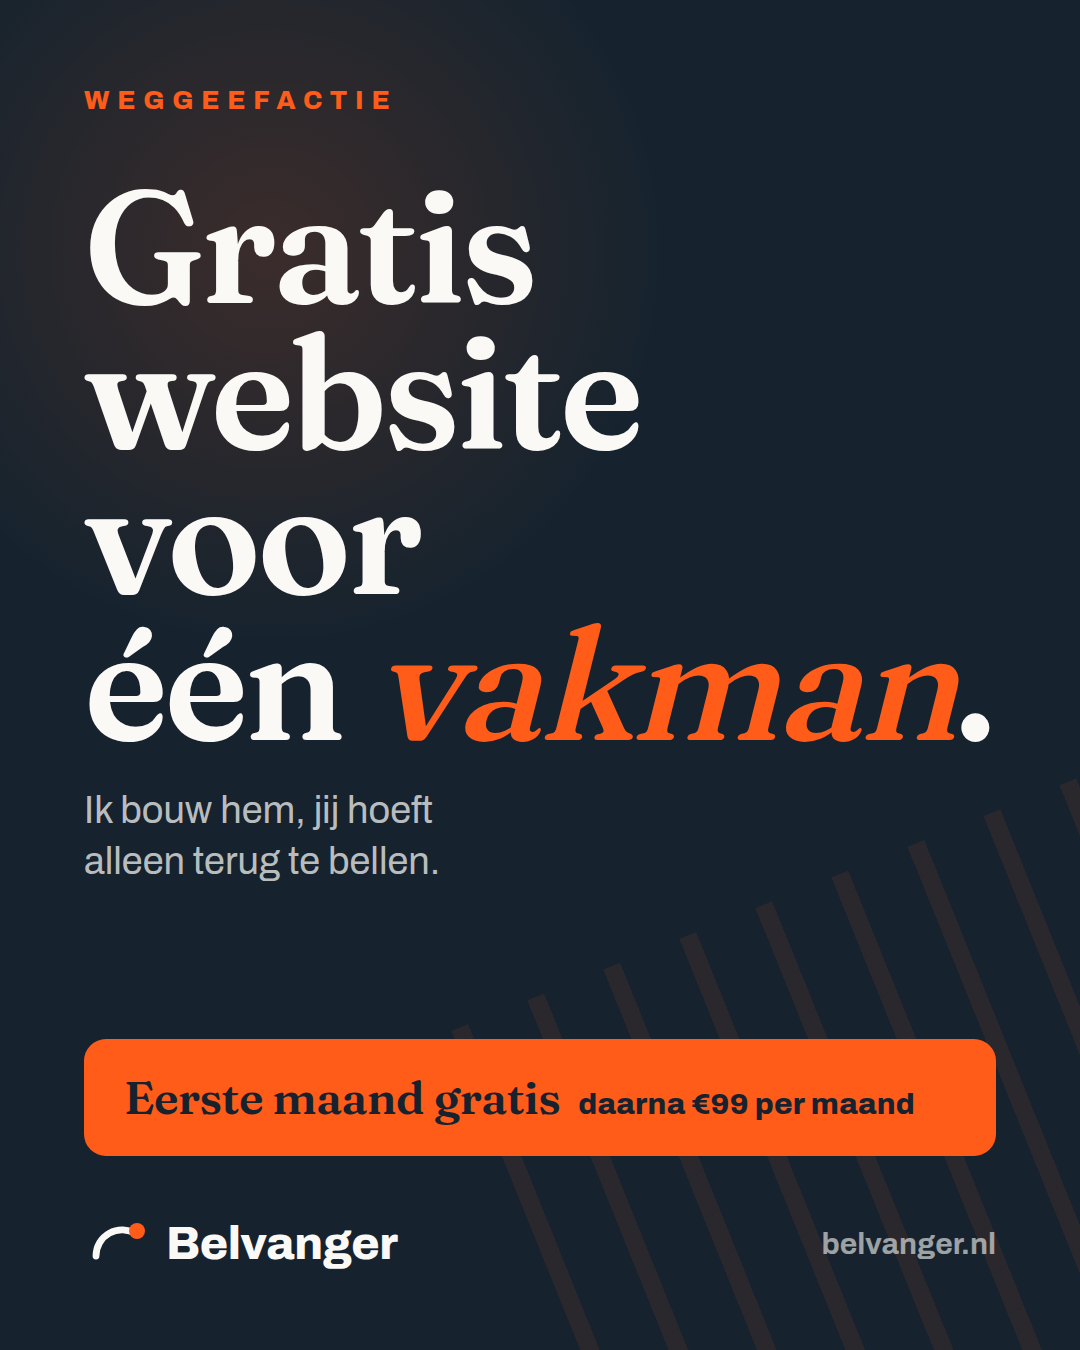
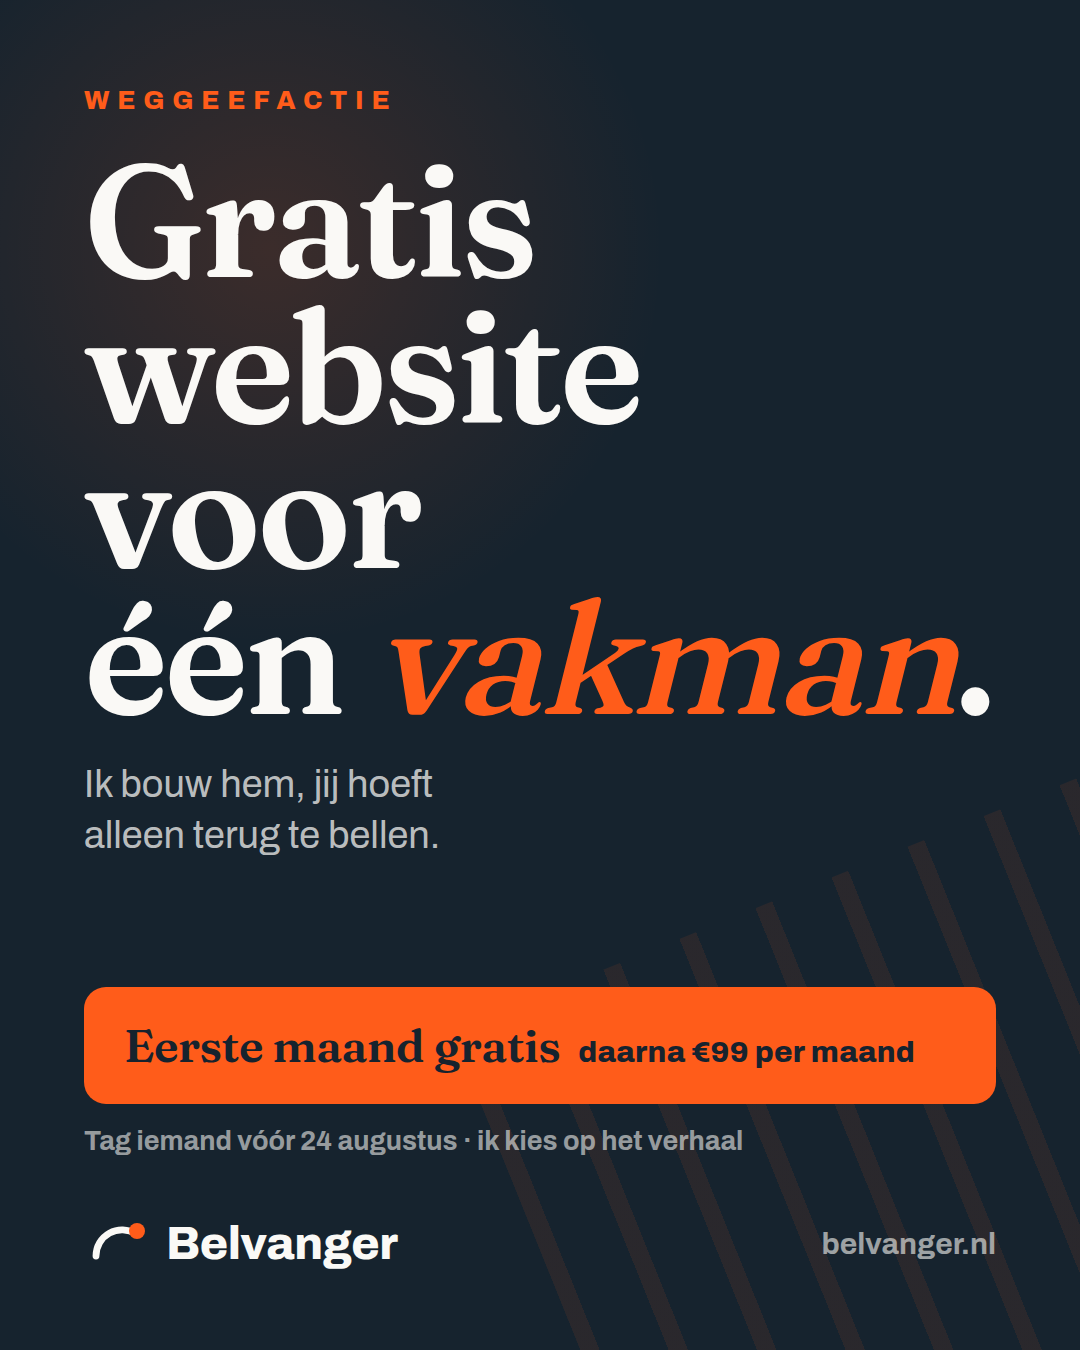
Put the deadline in the campaign image and record the giveaway
The founder's campaign text carries an end date, 24 August, and a mechanic:
tag someone with a reason, or send a private message, or nominate yourself, and
he picks on the story rather than on likes. The image had none of that. A picture
gets cropped out of its post and forwarded on its own, so the deadline has to
travel with it, otherwise someone answers a campaign that closed a month ago.

Both things I would have raised he had already solved: choosing rather than
drawing keeps this out of promotional-lottery territory, and asking for tags
rather than shares keeps it inside Facebook's promotion rules.

Two things in the copy are recorded as friction rather than fixed, since the text
is already published. "Niet tevreden? Dan heeft het je niks gekost!" is true of
the free month but reads wider, and that is the exact register the competitor
research holds against The A-Team's "no result, no payment" - no number, no
definition, no condition. Belvanger's whole distinction is that its promises can
be checked. And the value of the free setup is never named, while the offer page
puts it at EUR 625; "free" without a figure is abstract, and the figure is the
edge.

"Blijvend" here binds one winner, which costs about EUR 100 of margin a month
and is affordable. It settles nothing about the offer page, which still promises
EUR 99 for life to the first ten.

Claude-Session: https://claude.ai/code/session_01ScAmdcooz92p1aFMRoJXCe

Changed region(s): [[0.0611, 0.0933, 0.9167, 0.6533], [0.0611, 0.7156, 0.9472, 0.8711]]

diff --git a/docs/offers/actiebeeld-weggeefactie.html b/docs/offers/actiebeeld-weggeefactie.html
@@ -61,6 +61,11 @@
     gap:18px;flex-wrap:wrap}
   .balk b{font-family:var(--display);font-weight:600;font-size:46px;letter-spacing:-.01em}
   .balk span{font-weight:800;font-size:30px;letter-spacing:.01em}
+  /* De einddatum staat in de posttekst, maar een beeld wordt losgeknipt en doorgestuurd
+     zonder die tekst. Dan moet de termijn meereizen, anders reageert er over een maand nog
+     iemand op een actie die niet meer loopt. */
+  .termijn{position:relative;z-index:2;margin-top:22px;font-weight:700;font-size:27px;
+    color:rgba(250,249,246,.58)}
 
   .voet{position:relative;z-index:2;margin-top:56px;display:flex;align-items:center;
     justify-content:space-between;gap:24px}
@@ -99,6 +104,7 @@
       <b>Eerste maand gratis</b>
       <span>daarna &euro;99 per maand</span>
     </div>
+    <p class="termijn">Tag iemand v&oacute;&oacute;r 24 augustus &middot; ik kies op het verhaal</p>
 
     <div class="voet">
       <div class="merk">

diff --git a/SELLING.md b/SELLING.md
@@ -115,6 +115,38 @@ Daarom hoort er bij deze post één ding op de agenda, en het is geen bouwwerk:
       gesteld, en ze heeft al bewezen dat ze namen kent. Dit is de goedkoopste openstaande
       actie in dit hele bestand.
 
+### Weggeefactie, loopt tot 24 augustus 2026
+
+Bij de videopromotie geplaatst. **Het aanbod:** gratis opzetten, eerste maand gratis, daarna
+€99 per maand *blijvend*. **De mechaniek:** tag iemand met de reden waarom hij het verdient,
+of stuur een privébericht, of meld jezelf; wie getagd wordt hoeft alleen een duimpje te
+geven. De founder kiest zelf, **op het verhaal, niet op de meeste likes**.
+
+Beeld: `docs/offers/actiebeeld-weggeefactie.html` → `.png`, te herbouwen met
+`node tools/actiebeeld-maken.mjs`.
+
+**Twee dingen die de founder zelf goed heeft opgelost** en die dus niet meer gecontroleerd
+hoeven te worden: door zelf te kiezen in plaats van te loten is dit geen promotioneel
+kansspel, en door om taggen te vragen in plaats van om delen botst het niet met Facebooks
+promotieregels.
+
+**Twee dingen die aan de tekst schuren:**
+
+1. **"Niet tevreden? Dan heeft het je niks gekost!"** is waar voor de gratis maand, maar
+   leest breder. Dat is precies het register waar
+   `docs/research/concurrentie-vakmarketing-adhd-2026-08-07.md` The A-Team op afrekent:
+   *"Geen resultaat? Dan betaal je niet!"* zonder aantal, definitie of voorwaarde. Het
+   onderscheid van Belvanger is dat zijn beloftes wél na te kijken zijn; deze regel geeft
+   dat weg. Volgende keer: noem de termijn waarbinnen het geldt.
+2. **De waarde van "gratis opzetten" wordt niet genoemd.** Op de eigen aanbodpagina staat
+   €625 (normaal €1.250). "Gratis" zonder bedrag is abstract; mét bedrag is het concreet, en
+   concreetheid is nu juist de edge.
+
+**"Blijvend" is hier een publieke toezegging aan één winnaar.** Dat is te overzien — bij één
+klant scheelt het ongeveer €100 marge per maand. Het zegt **niets** over de openstaande
+vraag op `aanbod.html`, waar €99 "levenslang" aan de **eerste tien** wordt beloofd. Die staat
+nog open.
+
 ### Post 4 ligt klaar, maar mag nog niet
 
 `docs/offers/belvanger-facebook-post-4.md`. Twee voorwaarden, allebei thuis te doen:
